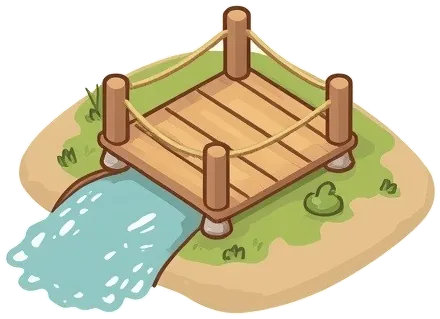
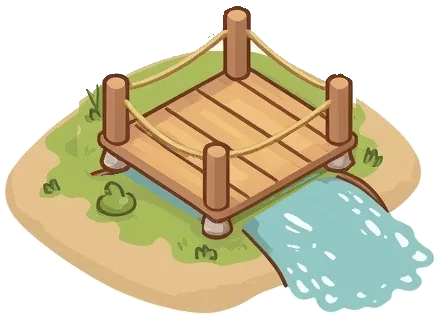
머지관: 매화언덕 다리 방향·연못 자리, 6지역 울타리 방향 수정

diff --git a/static/js/merge/town.js b/static/js/merge/town.js
@@ -87,7 +87,7 @@
     const x = taskOf(id); if (!x) return { x: 0, y: 0 };
     const b = T.build[id];
     if (b.mount) { const m = mountObj(id, x.i); if (m && m.center) return { x: m.wx, y: m.wy + 34 }; }
-    if (b.at) return W(x.i, b.at);
+    if (b.at) return W(x.i, atOf(id));
     if (b.clears && b.clears.length) return W(x.i, [b.clears[0][1], b.clears[0][2]]);
     if (b.fx === 'ruin') return W(x.i, T.ruin.at);
     const lh = T.build.r6_wall;
@@ -99,6 +99,13 @@
   const preview = {};                  // 모양 고르기 중 미리보기 { taskId: k }
   let anim = null;                     // 짓기 연출 { id, t0, dur, kind }
   function dirty() { sceneVer++; }
+  // 발밑 자리: 모양마다 자리가 다르면(lookAt · 4지역 다리는 물줄기 방향이 모양마다 달라 연못 둘레 다른 곳에 놓아요) 지금 모양 자리
+  function atOf(id) {
+    const b = T.build[id];
+    if (!b.lookAt) return b.at;
+    const k = preview[id] != null ? preview[id] : C.lookOf(st(), id);
+    return b.lookAt[k] || b.at;
+  }
   function lookArt(id) {
     const b = T.build[id];
     const k = preview[id] != null ? preview[id] : C.lookOf(st(), id);
@@ -139,12 +146,12 @@
         if (b.kind === 'G') return;
         if (b.mount) { const m = mountObj(t.id, i); if (m) push(m); return; }
         const art = b.kind === 'B3' ? lookArt(t.id) : b.art;
-        const p = W(i, b.at);
-        const o = { art, wx: p.x, wy: p.y, w: b.w, kind: 'build', task: t.id, b3: b.kind === 'B3', lights: b.lights, fx: b.fx };
+        const p = W(i, atOf(t.id));
+        const o = { art, wx: p.x, wy: p.y, w: b.w, kind: 'build', task: t.id, b3: b.kind === 'B3', lights: b.lights, fx: b.fx, flip: !!b.flip };
         if (b.z) o.z = origin(i).y + b.z;
         if (b.fx === 'bob') { o.dyn = true; }
         push(o);
-        (b.rep || []).forEach((r) => { const q = W(i, r); push({ art, wx: q.x, wy: q.y, w: b.w, kind: 'build', task: t.id, rep: true }); });
+        (b.rep || []).forEach((r) => { const q = W(i, r); push({ art, wx: q.x, wy: q.y, w: b.w, kind: 'build', task: t.id, rep: true, flip: !!r[2] }); });
       });
       // 6지역 등대 자리: 무너진 등대 → (나선 계단) 비계 → (외벽) 등대
       if (a.id === 'r6' && !EDIT && !s.tasks.r6_wall && !(anim && (anim.id === 'r6_wall' || anim.id === 'r6_stairs'))) {
@@ -281,7 +288,7 @@
   }
   // 접지 그림자: 그 그림의 바닥 띠 실루엣(흐림)을 기단 바로 밑에 · 살짝 아래·옆으로 번져 테두리에 붙은 진한 그림자 (떨어진 동그라미 아님)
   let shadowDone = false;
-  const hasShadow = (o) => !o.noShadow && !o.center && o.fx !== 'bob' && o.fx !== 'pond';
+  const hasShadow = (o) => !o.noShadow && !o.center && o.fx !== 'bob';   // 연못도 접지 그림자 (돌 테두리 밑 · 움푹한 자리에 앉아 보이게)
   function groundShadow(g, o, sc) {
     if (!hasShadow(o)) return;
     const r = spriteRect(o); if (!r) return;
@@ -296,7 +303,8 @@
     const spread = 1.07;                                          // 옆으로 살짝 넓게
     const uy = u * ky / kx, W2 = f.shadow.width * u * spread;
     g.globalAlpha = light ? 0.5 : 0.78;
-    g.drawImage(f.shadow, fx - W2 / 2, top - SH_P * uy + drop, W2, f.shadow.height * uy);
+    if (o.flip) { g.save(); g.translate(fx, 0); g.scale(-1, 1); g.drawImage(f.shadow, -W2 / 2, top - SH_P * uy + drop, W2, f.shadow.height * uy); g.restore(); }
+    else g.drawImage(f.shadow, fx - W2 / 2, top - SH_P * uy + drop, W2, f.shadow.height * uy);
     g.globalAlpha = 1;
   }
   function drawSprite(g, o, sc, dy, alpha) {
@@ -323,8 +331,12 @@
     if (sc && sc !== 1) {
       const fx = (o.wx - cam.x) * s + VW / 2, fy = (o.wy - cam.y) * s + VH / 2;
       const sy = typeof sc === 'object' ? sc.y : sc, sxx = typeof sc === 'object' ? sc.x : sc;
-      g.save(); g.translate(fx, fy); g.scale(sxx, sy);
+      g.save(); g.translate(fx, fy); g.scale(o.flip ? -sxx : sxx, sy);
       g.drawImage(r.im.im || r.im, -r.w * s / 2, (r.y - o.wy) * s + (dy || 0) * s, r.w * s, r.h * s);
+      g.restore();
+    } else if (o.flip) {   // 좌우 뒤집어 놓기 (울타리처럼 같은 그림을 비탈 방향에 맞춰요 · 발밑 가운데 기준)
+      g.save(); g.translate(x + r.w * s / 2, 0); g.scale(-1, 1);
+      g.drawImage(r.im.im, -r.w * s / 2, y, r.w * s, r.h * s);
       g.restore();
     } else g.drawImage(r.im.im, x, y, r.w * s, r.h * s);
     if (o.label && !(sc && sc !== 1)) { g.save(); g.translate(x + r.w * s / 2, y + r.h * s / 2); drawLabel(g, o.label, r.w * s, r.h * s); g.restore(); }
@@ -356,7 +368,7 @@
     if (isOpen(i4) && !st().tasks.r4_pond && !EDIT) {
       const p = W(i4, T.pond.at), q = toScr(p.x, p.y);
       g.fillStyle = 'rgba(120,104,70,.55)';
-      g.beginPath(); g.ellipse(q.x, q.y, T.pond.rx * s, T.pond.ry * s, -0.15, 0, 6.283); g.fill();
+      g.beginPath(); g.ellipse(q.x, q.y, T.pond.rx * s, T.pond.ry * s, 0, 0, 6.283); g.fill();
     }
     const sc = getScene();
     const skip = (o) => o.dyn || (bounce[o.task] && o.task) || o.task === tapBounce.id;
@@ -664,7 +676,7 @@
         if (!o.lights) return;
         const r = spriteRect(o); if (!r) return;
         o.lights.forEach((l, k) => {
-          const q = toScr(r.x + r.w * l[0], r.y + r.h * l[1]);
+          const q = toScr(r.x + r.w * (o.flip ? 1 - l[0] : l[0]), r.y + r.h * l[1]);
           if (q.x < -60 || q.x > VW + 60 || q.y < -60 || q.y > VH + 60) return;
           const rad = Math.max(10, 46 * s) * (ph === 'night' ? 1 : 0.6) * (1 + (F.reduced ? 0 : Math.sin(t / 260 + k * 2 + o.wx) * 0.06));
           const gr = g.createRadialGradient(q.x, q.y, 0, q.x, q.y, rad);
@@ -730,8 +742,8 @@
       const art = b.kind === 'B3' ? lookArt(a.id) : b.art;
       const mo = b.mount ? mountObj(a.id, x.i) : null;
       if (mo) { drawSprite(g, mo, { x: sc * (k < 0.45 ? 0.94 : 1), y: sc * (k < 0.45 ? 1.06 : 1) }); return; }
-      const all = [b.at].concat(b.rep || []);
-      all.forEach((p) => { const w = W(x.i, p); drawSprite(g, { art, wx: w.x, wy: w.y, w: b.w, fx: b.fx }, { x: sc * (k < 0.45 ? 0.94 : 1), y: sc * (k < 0.45 ? 1.06 : 1) }); });
+      const all = [atOf(a.id)].concat(b.rep || []);
+      all.forEach((p, n) => { const w = W(x.i, p); drawSprite(g, { art, wx: w.x, wy: w.y, w: b.w, fx: b.fx, flip: n ? !!p[2] : !!b.flip }, { x: sc * (k < 0.45 ? 0.94 : 1), y: sc * (k < 0.45 ? 1.06 : 1) }); });
     }
   }
 
@@ -1223,7 +1235,8 @@
       const r = spriteRect(o); if (!r) continue;
       const q = toScr(r.x, r.y), w = r.w * cam.s, h = r.h * cam.s;
       if (x < q.x || y < q.y || x > q.x + w || y > q.y + h) continue;
-      if (alphaAt(r.im, (x - q.x) / w, (y - q.y) / h) > 40) return o;
+      const fx = (x - q.x) / w;
+      if (alphaAt(r.im, o.flip ? 1 - fx : fx, (y - q.y) / h) > 40) return o;
     }
     return null;
   }
@@ -1393,7 +1406,7 @@
     const o = hitSprite(x, y, () => true);
     if (!o) return null;
     const ti = o.task ? taskOf(o.task) : null;
-    if (o.kind === 'build' && ti && !o.rep) return { at: T.build[o.task].at };
+    if (o.kind === 'build' && ti && !o.rep) return { at: atOf(o.task) };
     if (o.kind === 'debris' && ti) { const c = T.build[o.task].clears.find((c) => Math.abs(W(ti.i, [c[1], c[2]]).x - o.wx) < 1); return c ? { c } : null; }
     return null;
   }
@@ -1404,7 +1417,7 @@
   }
   function editCopy() {
     const out = {};
-    Object.keys(T.build).forEach((id) => { const b = T.build[id]; out[id] = { at: b.at, clears: b.clears }; });
+    Object.keys(T.build).forEach((id) => { const b = T.build[id]; out[id] = { at: b.at, clears: b.clears }; if (b.lookAt) out[id].lookAt = b.lookAt; });
     const txt = JSON.stringify(out);
     try { navigator.clipboard.writeText(txt); U.toast('좌표를 복사했어요 (data.js TOWN.build 에 붙여요)'); } catch (e) { banner(`<textarea class="field" rows="6">${esc(txt)}</textarea>`); }
   }

diff --git a/static/js/merge/data.js b/static/js/merge/data.js
@@ -588,8 +588,10 @@
       r3_bell: {kind: 'D1', art: 'd_r3_bell', at: [2250, 1470], w: 56},
       r4_weed: {kind: 'G', clears: [['c_weeds', 1400, 1500, 130], ['c_weeds', 900, 1150, 120], ['c_weeds', 1450, 1680, 100]]},
       r4_steps: {kind: 'D1', art: 'd_r4_steps', at: [880, 1650], w: 130},
-      r4_pond: {kind: 'D1', art: 'd_r4_pond', at: [1090, 1450], w: 250, fx: 'pond'},
-      r4_bridge: {kind: 'B3', art: 'b_r4_bridge', at: [1090, 1500], w: 210, lights: [[0.5, 0.45]], looks: ['무지개 돌다리', '나무 다리', '붉은 난간 다리']},
+      // 연못: 지도에 그려진 둥근 돌 웅덩이(테두리 977~1280 × 1257~1520 · 가운데 1128,1389)에 돌 고리를 딱 맞춰요
+      r4_pond: {kind: 'D1', art: 'd_r4_pond', at: [1130, 1516], w: 319, fx: 'pond'},
+      // 다리: 연못에서 흘러나온 물줄기를 건너요 · 무지개 돌다리(a)는 물이 왼쪽 아래로 → 연못 왼쪽 아래 · 나무(b)·붉은 난간(c)은 물이 오른쪽 아래로 → 연못 오른쪽 아래 (lookAt = 모양마다 발밑)
+      r4_bridge: {kind: 'B3', art: 'b_r4_bridge', at: [1043, 1535], lookAt: [[1043, 1535], [1198, 1542], [1195, 1535]], w: 220, lights: [[0.5, 0.45]], looks: ['무지개 돌다리', '나무 다리', '붉은 난간 다리']},
       r4_pavilion: {kind: 'B3', art: 'b_r4_pavilion', at: [1350, 1140], w: 245, clears: [['c_rubble_wood', 1350, 1140, 160]], lights: [[0.5, 0.42]], looks: ['육각 기와 정자', '초가 정자', '단청 정자']},
       r4_path: {kind: 'D1', art: 'd_r4_path', at: [760, 1660], w: 115, rep: [[700, 1570], [665, 1480], [640, 1390]]},
       r5_clean: {kind: 'G', clears: [['c_beach_trash', 2500, 470, 140], ['c_beach_trash', 1680, 450, 130], ['c_beach_trash', 2620, 1250, 110]]},
@@ -600,7 +602,8 @@
       r5_cart: {kind: 'D1', art: 'd_r5_cart', at: [2380, 1150], w: 150},
       r5_arch: {kind: 'B3', art: 'b_r5_arch', at: [2270, 1270], w: 175, lights: [[0.28, 0.42], [0.72, 0.42]], looks: ['청사초롱 아치', '연꽃 등 아치', '별 모양 등 아치']},
       r6_path: {kind: 'G', clears: [['c_weeds', 1180, 1000, 120], ['c_rubble_stone', 1300, 950, 130], ['c_weeds', 1100, 1010, 100]]},
-      r6_fence: {kind: 'D1', art: 'd_r6_fence', at: [640, 600], w: 120, rep: [[760, 640], [1080, 600]]},
+      // 울타리: 그림은 '/' 방향 → 등대 언덕 왼쪽 아래 둘레('\' 방향)에 놓는 둘은 flip(좌우 뒤집기) · rep 의 셋째 값 1 = 뒤집기
+      r6_fence: {kind: 'D1', art: 'd_r6_fence', at: [640, 600], w: 120, flip: 1, rep: [[760, 640, 1], [1080, 600]]},
       r6_hut: {kind: 'B3', art: 'b_r6_hut', at: [725, 520], w: 195, clears: [['c_rubble_stone', 725, 520, 135]], lights: [[0.45, 0.62]], looks: ['돌 오두막', '나무 오두막', '파란 지붕 오두막']},
       r6_stairs: {kind: 'G', fx: 'ruin'},
       r6_wall: {kind: 'B3', art: 'b_r6_wall', at: [920, 430], w: 150, lights: [[0.5, 0.12]], looks: ['흰·빨강 띠 등대', '흰·쪽빛 띠 등대', '크림·분홍 띠 등대']},
@@ -609,7 +612,7 @@
       r6_light: {kind: 'G', fx: 'beam'}
     },
     ruin: { art: 'c_ruin_lighthouse', at: [920, 420], w: 135, scaffold: 'c_scaffold', sw: 165 },
-    pond: { at: [1090, 1385], rx: 92, ry: 68 },            // 4지역 탁한 물 덮개 (연못 맑게 하기 전)
+    pond: { at: [1128, 1389], rx: 130, ry: 111 },            // 4지역 탁한 물 덮개 (연못 맑게 하기 전)
     // 바다 위 작은 고깃배 [그림, x, y, 폭, 오가는 폭] (출렁 + 천천히 오감)
     boats: [['c_boat_a', 2700, 2520, 120, 50], ['c_boat_b', 300, 1500, 110, 50], ['c_boat_a', 2900, 900, 110, 50], ['c_boat_b', 1900, 2960, 120, 50]],
     // 상점 [꾸미기] 마을 장식 (몇 개든 · 20×m) · 꾸미기에서 지도 아무 곳에 놓아요

diff --git a/tools/merge_art.py b/tools/merge_art.py
@@ -235,6 +235,66 @@ PAINT = {
 }
 
 
+# 다리 물줄기 방향 바로잡기 (2026-11-04 · 주인 신고 '다리 3개 중 2개가 방향이 틀려요')
+#  나무 다리(b)·붉은 난간 다리(c)는 상판(널빤지·난간)이 '/' 방향인데 그림 속 물줄기도 '/'(왼쪽 아래)로 흘러
+#  물이 다리를 따라 흘러요 → 다리는 그대로 두고 모래섬+물줄기 바탕만 좌우로 뒤집어 물이 다리 밑(c 는 아치)을 지나
+#  오른쪽 아래로 흐르게 해요. 무지개 돌다리(a)는 원래 맞아요.
+#  다각형 = 다리 구조물 둘레 (출력 webp px ×2 · 폭 ref 기준)
+STREAM_SWAP = {
+    "b_r4_bridge_b": (440, [(195, 270), (205, 160), (230, 148), (258, 160), (445, 58), (448, 20), (475, 10), (500, 20), (503, 62), (652, 158), (680, 146), (708, 163),
+                            (714, 280), (714, 322), (692, 342), (655, 338), (462, 440), (464, 466), (440, 478), (408, 472), (403, 442), (245, 347), (208, 342), (196, 302)]),
+    "b_r4_bridge_c": (463, [(146, 288), (193, 172), (258, 176), (453, 58), (468, 8), (520, 10), (524, 104), (562, 124), (686, 192), (698, 162), (748, 158), (754, 234),
+                            (799, 274), (799, 380), (402, 580), (383, 560), (383, 420), (205, 402), (146, 402)]),
+}
+
+
+def _ground_cls(a):
+    r, g, b, al = [a[..., i].astype(int) for i in range(4)]
+    mx = np.maximum(np.maximum(r, g), b); mn = np.minimum(np.minimum(r, g), b)
+    lum = (r + g + b) / 3
+    water = (b > r + 12) & (g > r + 5) & (al > 10)
+    white = (lum > 215) & (mx - mn < 40) & (al > 10)
+    grass = (g > r + 8) & (g > b + 15) & (al > 10)
+    return water, white, grass
+
+
+def town_stream_swap(im, name):
+    """다리 구조물은 그대로 · 바탕(모래섬+물줄기)은 좌우로 뒤집은 그림 · 다리 사이로 보이던 풀빛엔 뒤집은 바탕(물)이 보여요"""
+    from PIL import ImageDraw
+    ref, pts = STREAM_SWAP[name]
+    a = np.array(im.convert("RGBA")); H, W = a.shape[:2]; k = W / ref
+    pm = Image.new("L", (W, H), 0); ImageDraw.Draw(pm).polygon([(x / 2 * k, y / 2 * k) for x, y in pts], fill=255)
+    poly = np.array(pm) > 127
+    polyD = ndimage.binary_dilation(poly, iterations=5)
+    water, white, grass = _ground_cls(a)
+    # 원래 물줄기 (가장 큰 물 덩어리 + 테두리 2px)
+    wm = water | white
+    lab, n = ndimage.label(ndimage.binary_closing(wm, iterations=2))
+    sm = lab == (int(np.argmax(ndimage.sum(wm, lab, range(1, n + 1)))) + 1)
+    sm = ndimage.binary_dilation(ndimage.binary_fill_holes(sm), iterations=2) & (a[..., 3] > 0)
+    out = a[:, ::-1].copy()                                    # 바탕 = 뒤집은 그림
+    q = polyD[:, ::-1] & ~poly                                 # 뒤집은 다리 자리 중 원래 다리 밖 → 원래 그림의 땅
+    qs = q & ~sm
+    out[qs] = a[qs]
+    qw = q & sm                                                # 그중 원래 물줄기 자리 → 가까운 땅
+    if qw.any():
+        _, (iy, ix) = ndimage.distance_transform_edt(qw | polyD[:, ::-1], return_indices=True)
+        out[qw] = out[iy[qw], ix[qw]]
+    keep = poly & ~grass
+    keep = ndimage.binary_opening(keep, iterations=1) | (poly & ~grass & (a[..., 3] > 200) & ~ndimage.binary_erosion(poly, iterations=2))
+    out[keep] = a[keep]
+    w2, wh2, _ = _ground_cls(out)
+    fix = poly & grass & poly[:, ::-1] & ~(w2 | wh2)           # 다리 사이 풀빛인데 바탕이 뒤집힌 다리 조각이면 원래 풀
+    out[fix] = a[fix]
+    # 다리 둘레 위쪽에 남는 옅은 테두리 지우기 (물이 없는 윗부분만)
+    zone = ndimage.binary_dilation(poly | poly[:, ::-1], iterations=6)
+    zone[int(H * 0.6):] = False
+    lum = out[..., :3].astype(int).mean(axis=2)
+    solid = ndimage.binary_dilation(out[..., 3] >= 235, iterations=2)
+    out[zone & (out[..., 3] < 235) & ((lum > 185) | ~solid), 3] = 0
+    return Image.fromarray(out)
+
+
 def finish_alpha(im, fg, al, keep):
     lab, n = ndimage.label(fg, structure=np.ones((3, 3)))
     if n > 1:
@@ -563,6 +623,8 @@ def town(only=""):
             elif name[:2] in ("b_", "c_", "d_") and name not in SAND_SKIP:
                 im = town_desand(im, name)
             out = fit_long(trim(im), {"b": 512, "c": 384, "d": 384, "m": 256, "w": 300, "h": 520}[name[0]])
+            if name in STREAM_SWAP:
+                out = town_stream_swap(out, name)
             if name.startswith("h_"):
                 f = town_face(out)
                 fd = TOWN_OUT / (name.replace("h_outfit_", "h_").replace("_base", "") + "_face.webp")

diff --git a/docs/handoff/release_checklist.md b/docs/handoff/release_checklist.md
@@ -26,6 +26,7 @@
 | 17 | 판 맨 아랫줄 **가운데** 칸('열기!' 선물 상자)이 또 안 눌림 (라이브 · 2번째 신고) | 팔기·자동 합치기 뒤 뜨는 **'되돌리기' 단추 알림**이 판 아랫줄 가운데 바로 위에 뜨는데, 단추 알림은 `pointer-events: auto` 였고 **사라진 뒤(투명)에도 `has-b`가 남아** 다음 보통 알림 전까지 아랫줄 가운데 3~5칸의 톡을 계속 가로챔 · 지난 점검은 알림 없는 빈 칸만 봐서 못 잡음. 덤으로 '열기!' 상자는 두 번 톡해야 열렸음 | 알림 몸통은 늘 통과·보일 때만 단추가 톡 · 닫히면 단추 표시도 걷음 · 단추 알림은 아래 정보 칸 자리에 띄움 · '열기!'는 한 번 톡에 열림(손가락이 밀려 끌기가 돼도 제자리면 열림) · 손가락 끌기 문턱 8→10px · `merge_hitcheck.py` 에 특수 칸×아랫줄 7칸×알림·배지·꽉 찬 판 점검 (커밋 전) |
 | 18 | 충전 발생기(찻잎 선반·등 공방 상자)에 두꺼운 초록 덩어리가 칸 밖으로 번지고 남은 횟수 배지가 위 칸에 걸침 | 충전 링을 `inset:-3px` + 원형 `radial-gradient` 마스크로 그림(네모 칸에 원 마스크 → 두꺼운 덩어리, 칸 밖으로) · 배지 `left:-3px; top:-4px` | 칸 안쪽 둥근 모서리를 따라 도는 얇은 SVG 진행 테두리 · 배지는 칸 안 왼쪽 아래 · 쉬는 시간 글자 줄임 · 점검 도구가 칸 밖·글자 잘림을 봄 (커밋 전) |
 | 19 | 되돌리기는 쓰지 않음 (주인 요청) | 팔기·자동 합치기 뒤 단추 알림과 아래 칸 ↶ 버튼이 필요 없었음 | 되돌리기 버튼·단추 알림·상태 제거 · 아래 칸은 마을·가방·친구 / 상점(2칸)·자동 · 팔기 확인·자동 합치기 사기 전 확인은 그대로 · 옛 저장의 되돌리기 칸은 무시 (커밋 전) |
+| 20 | 4지역 다리 3모양 중 2개(나무·붉은 난간)가 방향이 틀림 · 둥근 돌 연못이 지도의 둥근 웅덩이 위로 비껴 떠 있음 (4/6 화면) | 나무·붉은 난간 다리는 상판이 '/' 인데 그림 속 물줄기도 '/' 로 흘러 물이 다리를 따라 흐름 · 연못 좌표를 웅덩이에 안 맞추고 그림자도 끔 · 6지역 울타리 둘은 '/' 그림을 언덕 '\' 둘레에 놓음 | 다리 b·c 는 다리는 두고 모래섬+물줄기만 좌우로 뒤집어 물이 다리 밑(아치)을 지나게(`merge_art.py` STREAM_SWAP) · 모양마다 발밑 자리(`lookAt`) · 연못을 웅덩이 가운데·같은 크기로 + 접지 그림자 · 탁한 물 덮개도 웅덩이에 · 울타리 `flip` (커밋 전) |
 
 ## 2. 다음부터 지킬 규칙 (배포 전 체크리스트)
 
@@ -47,6 +48,7 @@
 - [ ] 가짜 글자·워터마크 검사.
 - [ ] '고치기 전/후'는 **'후' 그림을 Kontext 로 부숴서 '전'을 만들기** (구도·좌표 유지). "어둡게 하지 말 것, 확대하지 말 것"을 프롬프트에 명시하고 밝기를 비교 검사.
 - [ ] 건물 스프라이트는 같은 각도·같은 seed, 발밑 기준점으로 배치하고 접지 그림자를 깔 것. **확대한 화면으로 스크린숏을 찍어** 기단이 평평한 땅(돌담·비탈 아님) 위에 있는지, 그림자가 기단에 붙었는지 6지역 모두 볼 것. 좌표는 `?edit=1` 도구로 실제 그림에 맞춰 찍기.
+- [ ] **방향이 있는 것(다리·선착장·계단·울타리)은 지형 방향과 맞는지** 확인: 다리는 물을 가로질러야 하고(물이 다리를 따라 흐르면 안 됨), 울타리는 둘레 방향을 따라 · 모양 3가지 모두. 지도에 그려진 자리(웅덩이·집터)에 놓는 그림은 그 자리 가운데·같은 크기로.
 - [ ] 비슷해 보이는 물건(예: 씨앗 항아리 vs 꽃씨 주머니)은 모양·색을 확실히 다르게.
 
 ### 밸런스
